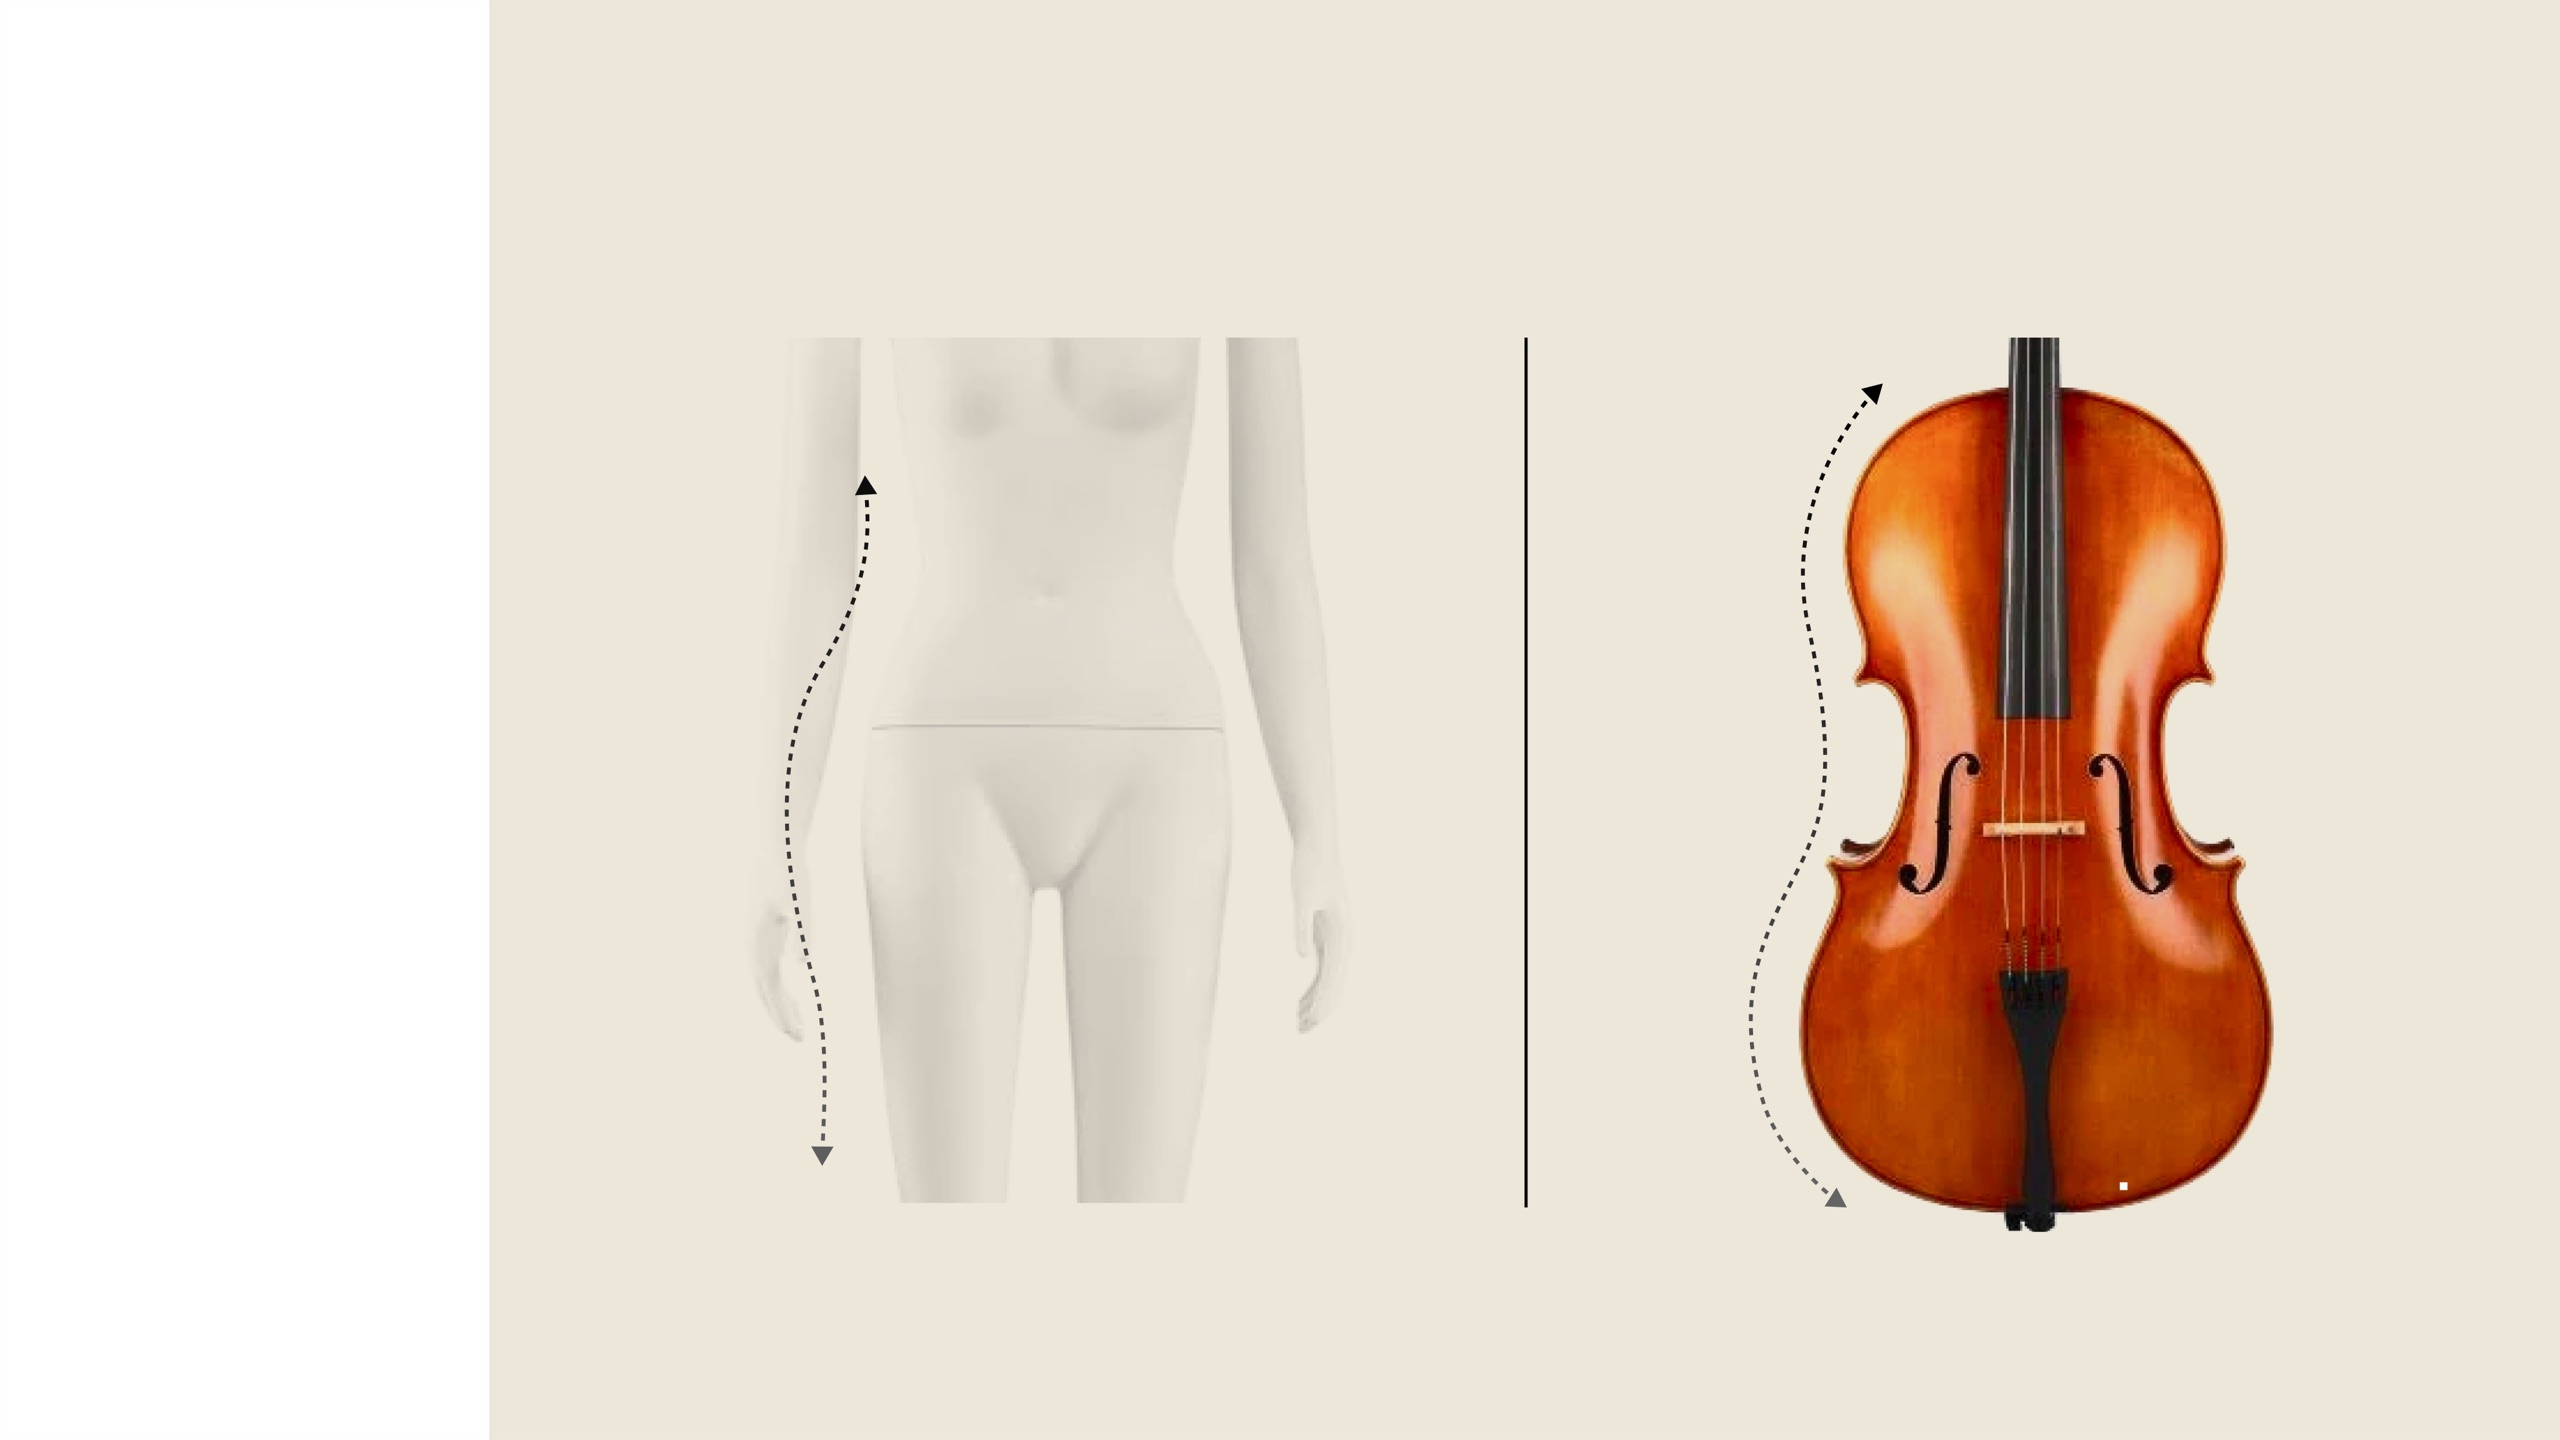
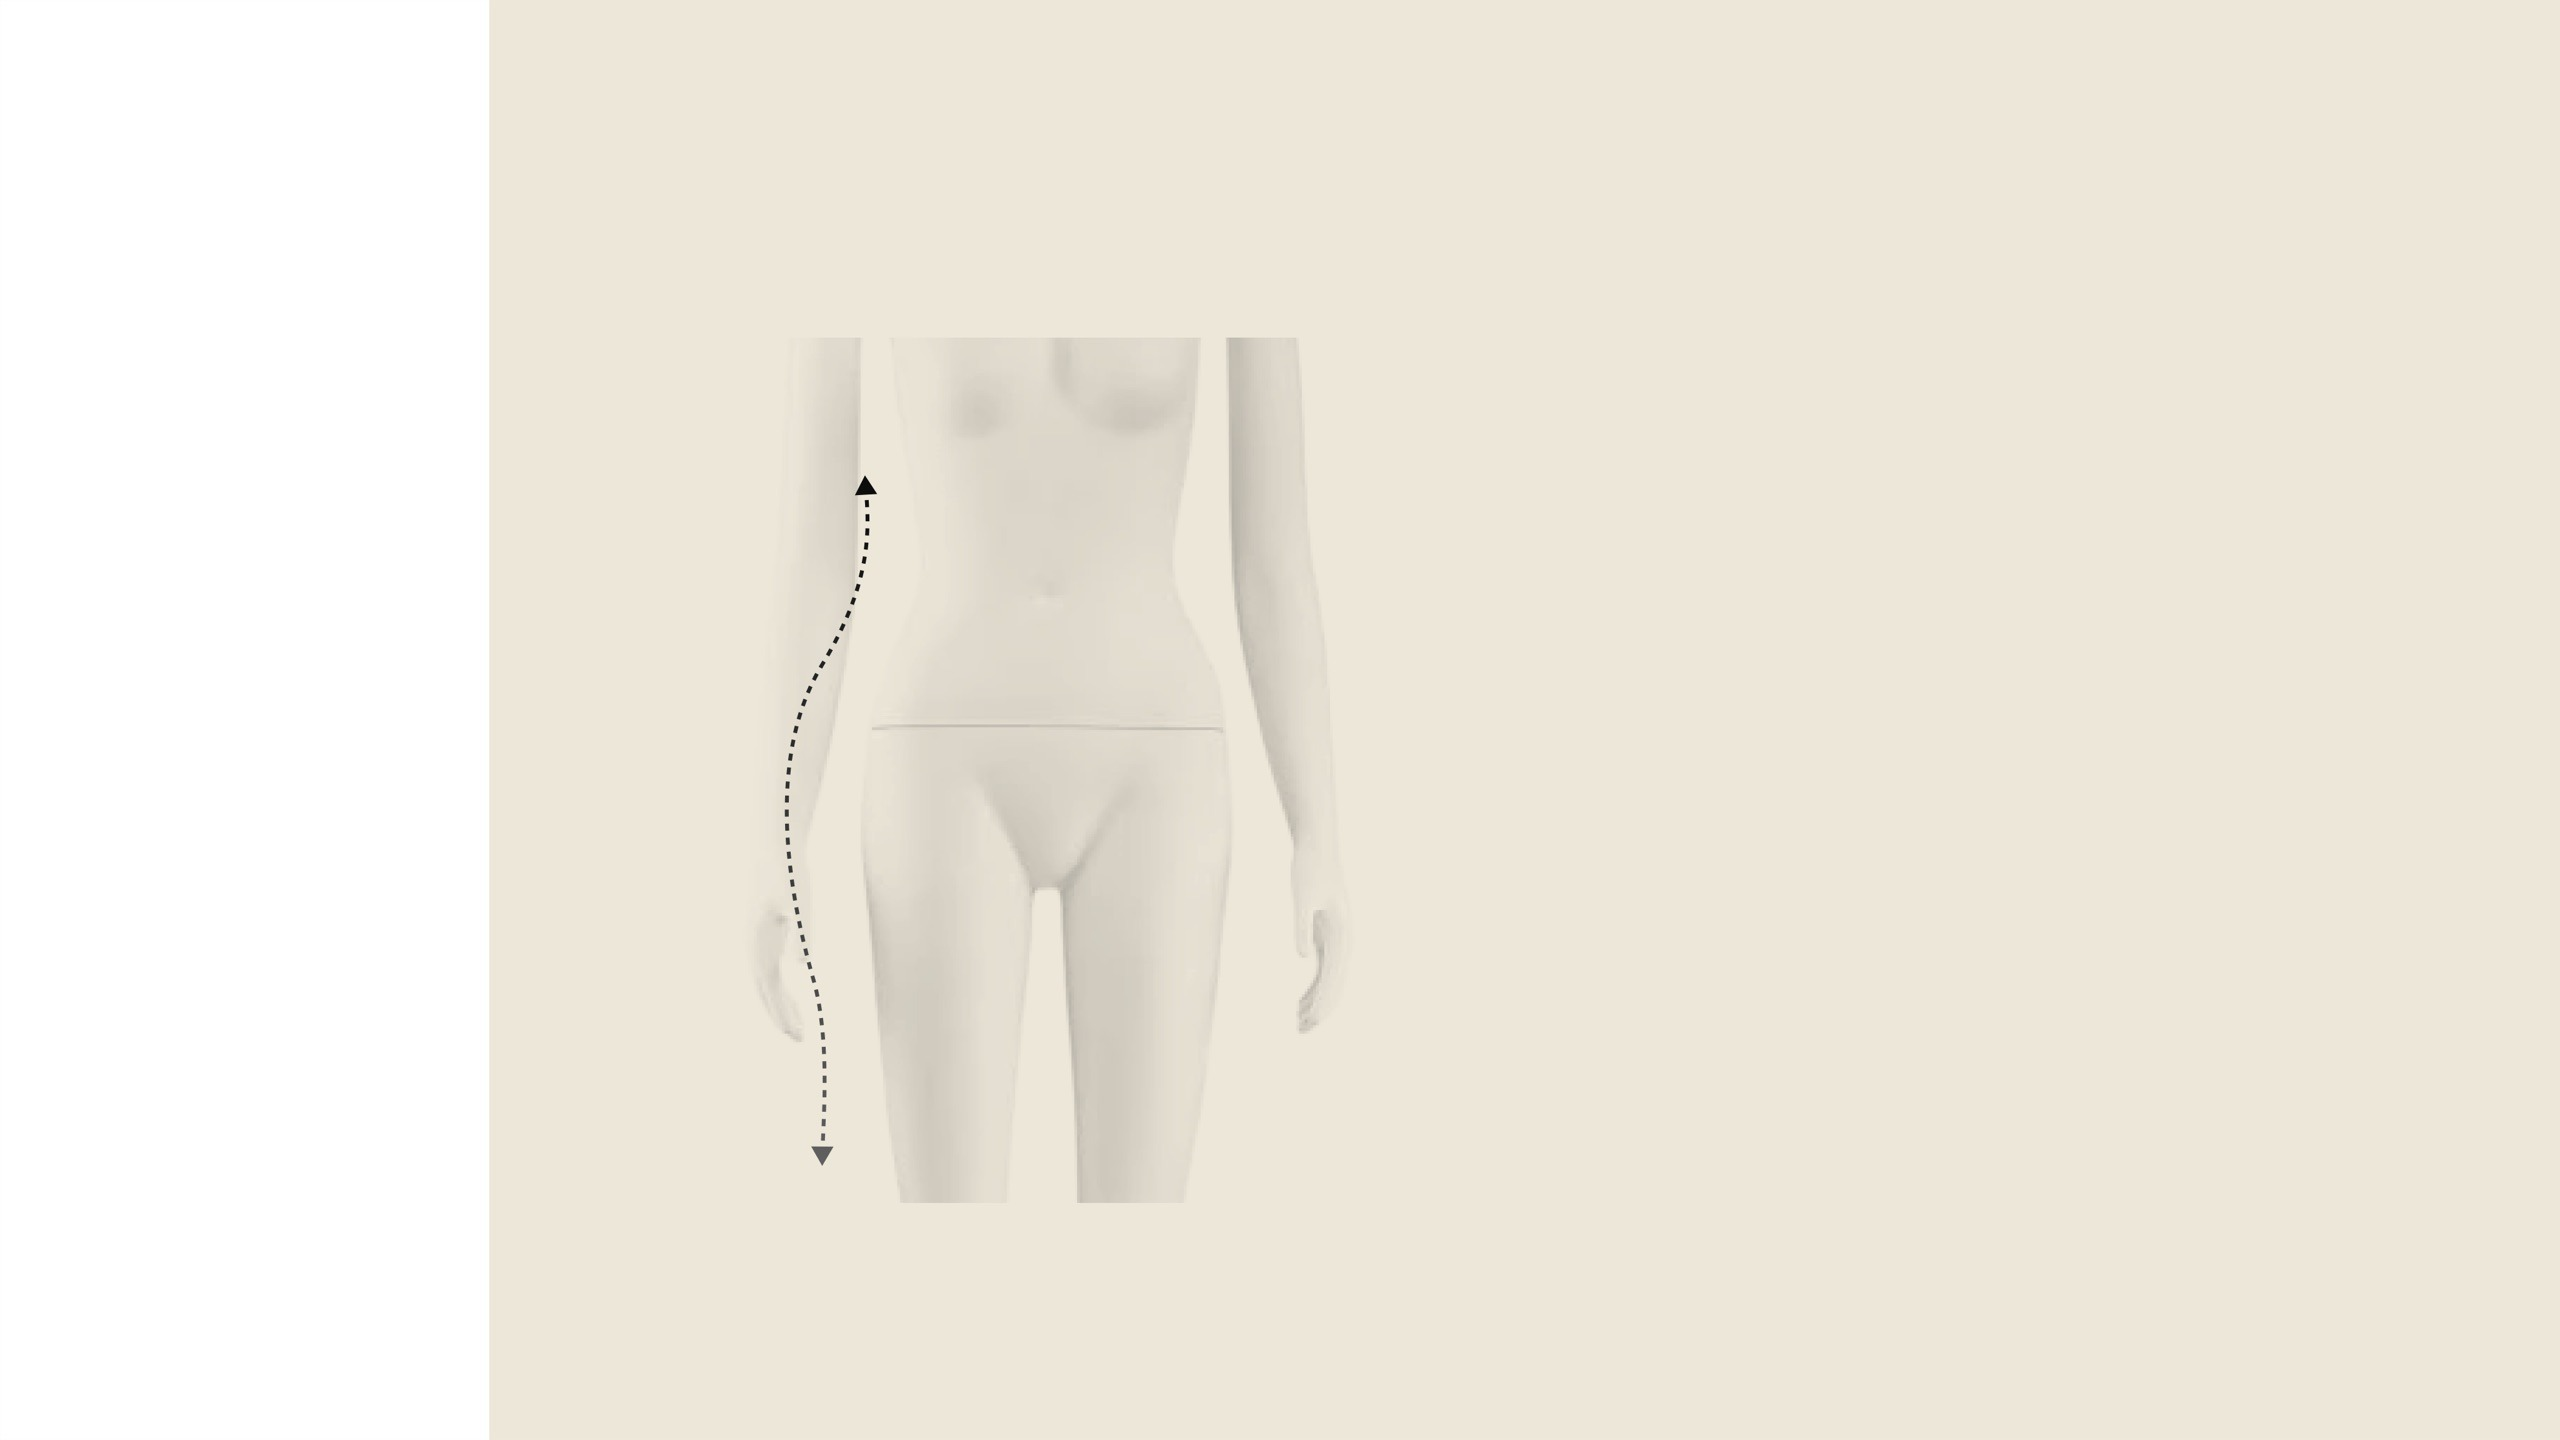
Section 4: static background, floating violin+mannequin layer; stop examples artwork float

Changed region(s): [[0.6875, 0.2188, 0.9062, 0.875]]

diff --git a/index.html b/index.html
@@ -7,7 +7,7 @@
 <link rel="preconnect" href="https://fonts.googleapis.com">
 <link rel="preconnect" href="https://fonts.gstatic.com" crossorigin>
 <link href="https://fonts.googleapis.com/css2?family=Source+Serif+4:ital,opsz,wght@0,8..60,400;0,8..60,500;0,8..60,600;1,8..60,400;1,8..60,600&display=swap" rel="stylesheet">
-<link rel="stylesheet" href="styles.css?v=20261012j">
+<link rel="stylesheet" href="styles.css?v=20261012k">
 </head>
 <body>
 
@@ -93,7 +93,8 @@
   <!-- ============ SECTION 4 ============ -->
   <section class="panel s4" id="s4">
     <div class="stage">
-    <img class="plate" src="assets/section-4.jpg?v=20261012b" alt="Cello">
+    <img class="plate" src="assets/section-4.jpg?v=20261012k" alt="Cello">
+    <img class="s4subject" src="assets/section-4-subject.jpg?v=20261012k" alt="">
     <div class="fx" style="--amp:calc(0.6 * 0.5625vw);">
     </div>
   </div>
@@ -307,6 +308,6 @@
 </main>
 
 <noscript><style>.fx{opacity:1 !important}</style></noscript>
-<script src="script.js?v=20261012j"></script>
+<script src="script.js?v=20261012k"></script>
 </body>
 </html>

diff --git a/script.js b/script.js
@@ -90,11 +90,6 @@
       panel.querySelectorAll(".fx, .fx-flow").forEach((el) => {
         el.style.translate = `0 ${y.toFixed(1)}px`;
       });
-      // EXAMPLES 页: 作品图片轻轻漂浮
-      if (panel.id === "ex1" || panel.id === "ex2") {
-        const art = panel.querySelector(".artwork");
-        if (art) art.style.translate = `0 ${(y * 1.2).toFixed(1)}px`;
-      }
     });
     requestAnimationFrame(floatTick);
   };

diff --git a/styles.css b/styles.css
@@ -32,7 +32,14 @@ body {
 .s1, .s2, .s9 { background: #ebe6d8; }
 .s3, .s4, .s5, .s6, .s7, .s8 { background: #ebe6d8; }
 
-#s4 .stage {
+.s4subject {
+  position: absolute;
+  left: 58.36%;
+  top: 21.53%;
+  width: 31.56%;
+  user-select: none;
+  pointer-events: none;
+  opacity: var(--pvis, 1);
   animation: bob 3.5s ease-in-out infinite alternate;
   --amp: 40px;
 }
